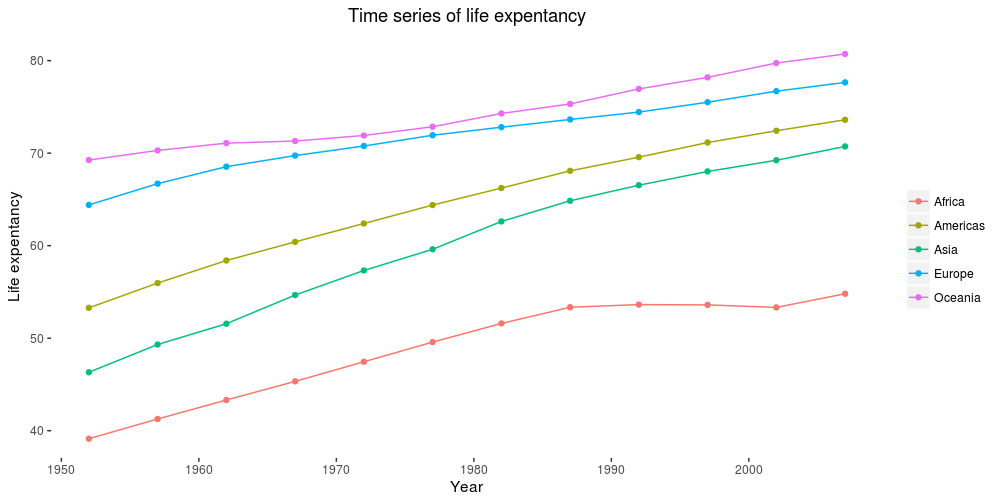
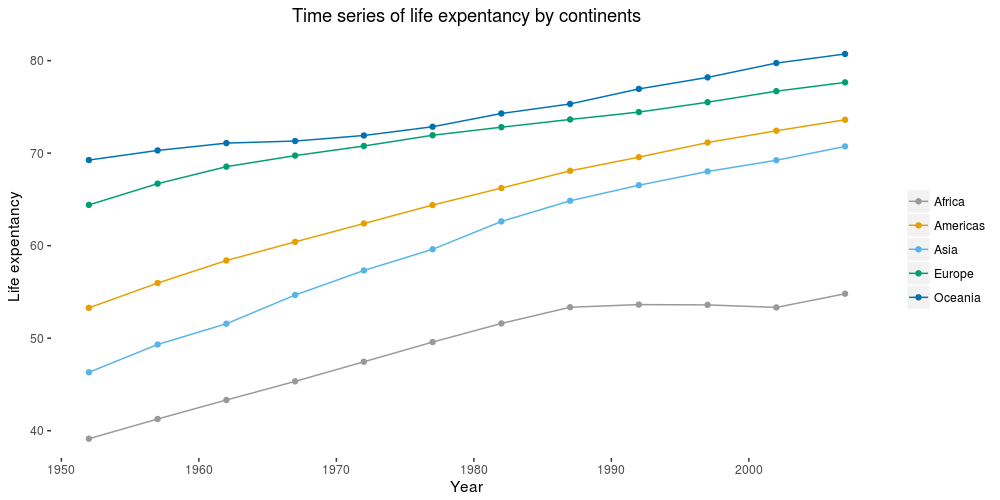
Modify exercises

diff --git a/doc/html/prog1_lesson06_part01_Feladatok.html b/doc/html/prog1_lesson06_part01_Feladatok.html
@@ -145,10 +145,13 @@ $(document).ready(function () {
 <h2>II. feladat</h2>
 <ol style="list-style-type: decimal">
 <li>Olvasd be <code>data</code> mappából a <code>gapminder.csv</code>-t <code>gm</code> néven.</li>
-<li>Ábrázold a <code>lifeExp</code> oszlop adatait hisztogramon és rajzold rá a sűrűségfüggvény görbét! A plot hasonlítson minél jobban a kimentett <code>fig/part02/exercise_II_2.png</code> ábrára! A hisztogram színe <code>grey65</code>, a sűrűség görbe színe <code>aquamarine</code>.</li>
-<li><p>Készíts egy oszlopdiagramot, ami leginkább hasonlít a kimentett <code>fig/part02/exercise_II_3.png</code> ábrára! Az oszlopok színe legyen egy paletta az <code>aquamarine, aquamarine1, aquamarine2, aquamarine3, aquamarine4</code> színekkel. <a href="http://www.cookbook-r.com/Graphs/Colors_(ggplot2)/" target="_blank">Itt</a> találsz róla infót, hogy hogyan tudsz manuálisan palettát beállítani.</p></li>
-<li></li>
+<li>Ábrázold a születéskor várható élettartamot (<code>lifeExp</code> oszlop) hisztogramon, rajzold rá a sűrűségfüggvény görbét és az átlagot egy függőleges vonallal! A hisztogram színe legyen <code>grey65</code>, a sűrűség görbe színe pedig <code>aquamarine</code>. A plot hasonlítson minél jobban a kimentett <code>fig/part02/exercise_II_2.png</code> ábrára!</li>
+<li>Készíts egy oszlopdiagramot a kontinensenkénti átlagos születéskor várható élettartammal. Az oszlopok színe legyen egy paletta az <code>#999999, #E69F00, #56B4E9, #009E73, #0072B2</code> színkódú színekkel. <a href="http://www.cookbook-r.com/Graphs/Colors_(ggplot2)/" target="_blank">Itt</a> találsz róla infót, hogy hogyan tudsz manuálisan palettát beállítani, ha <code>ggplot2</code>-vel dolgozol, és <a href="http://www.r-tutor.com/elementary-statistics/qualitative-data/bar-graph" target="_blank">itt</a>, ha a <code>base</code> package-gel. A plot hasonlítson minél jobban a kimentett <code>fig/part02/exercise_II_3.png</code> ábrára!</li>
+<li>Készíts egy szórásdiagramot a születéskor várható élettartamról 2007-ben. Az alapegységek legyenek az országok, de a színezés legyen kontinensenként. Használd az előző palettát a színezéshez. Az egyes kontinensek országainak pontfelhőjére illessz lineáris regressziós egyenest! Az y-tengelyt tedd logaritmikus skálára (log10). A diagram hasonlítson minél jobban a kimentett <code>fig/part02/exercise_II_4.png</code> ábrára!</li>
+<li>Ábrázold a kontinensenkénti születéskor várható élettartamot 1952-től 2007-ig vonaldiagrammal. Használd az előző palettát a színezéshez. A plot hasonlítson minél jobban a kimentett <code>fig/part02/exercise_II_5.png</code> ábrára!</li>
+<li>Ábrázold az országonkénti átlagos születéskor várható élettartam és az átlagos egy főre jutó GDP kapcsolatát szórásdiagramon! Az alapegységek legyenek az országok, de a pontok színezése legyen kontinensenként. Használd az előző palettát a színezéshez. Feliratozd a pontokat az országok nevével. Az y-tengelyt tedd logaritmikus skálára (log10). A plot hasonlítson minél jobban a kimentett <code>fig/part02/exercise_II_6.png</code> ábrára!</li>
 </ol>
+<hr />
 </div>
 
 
